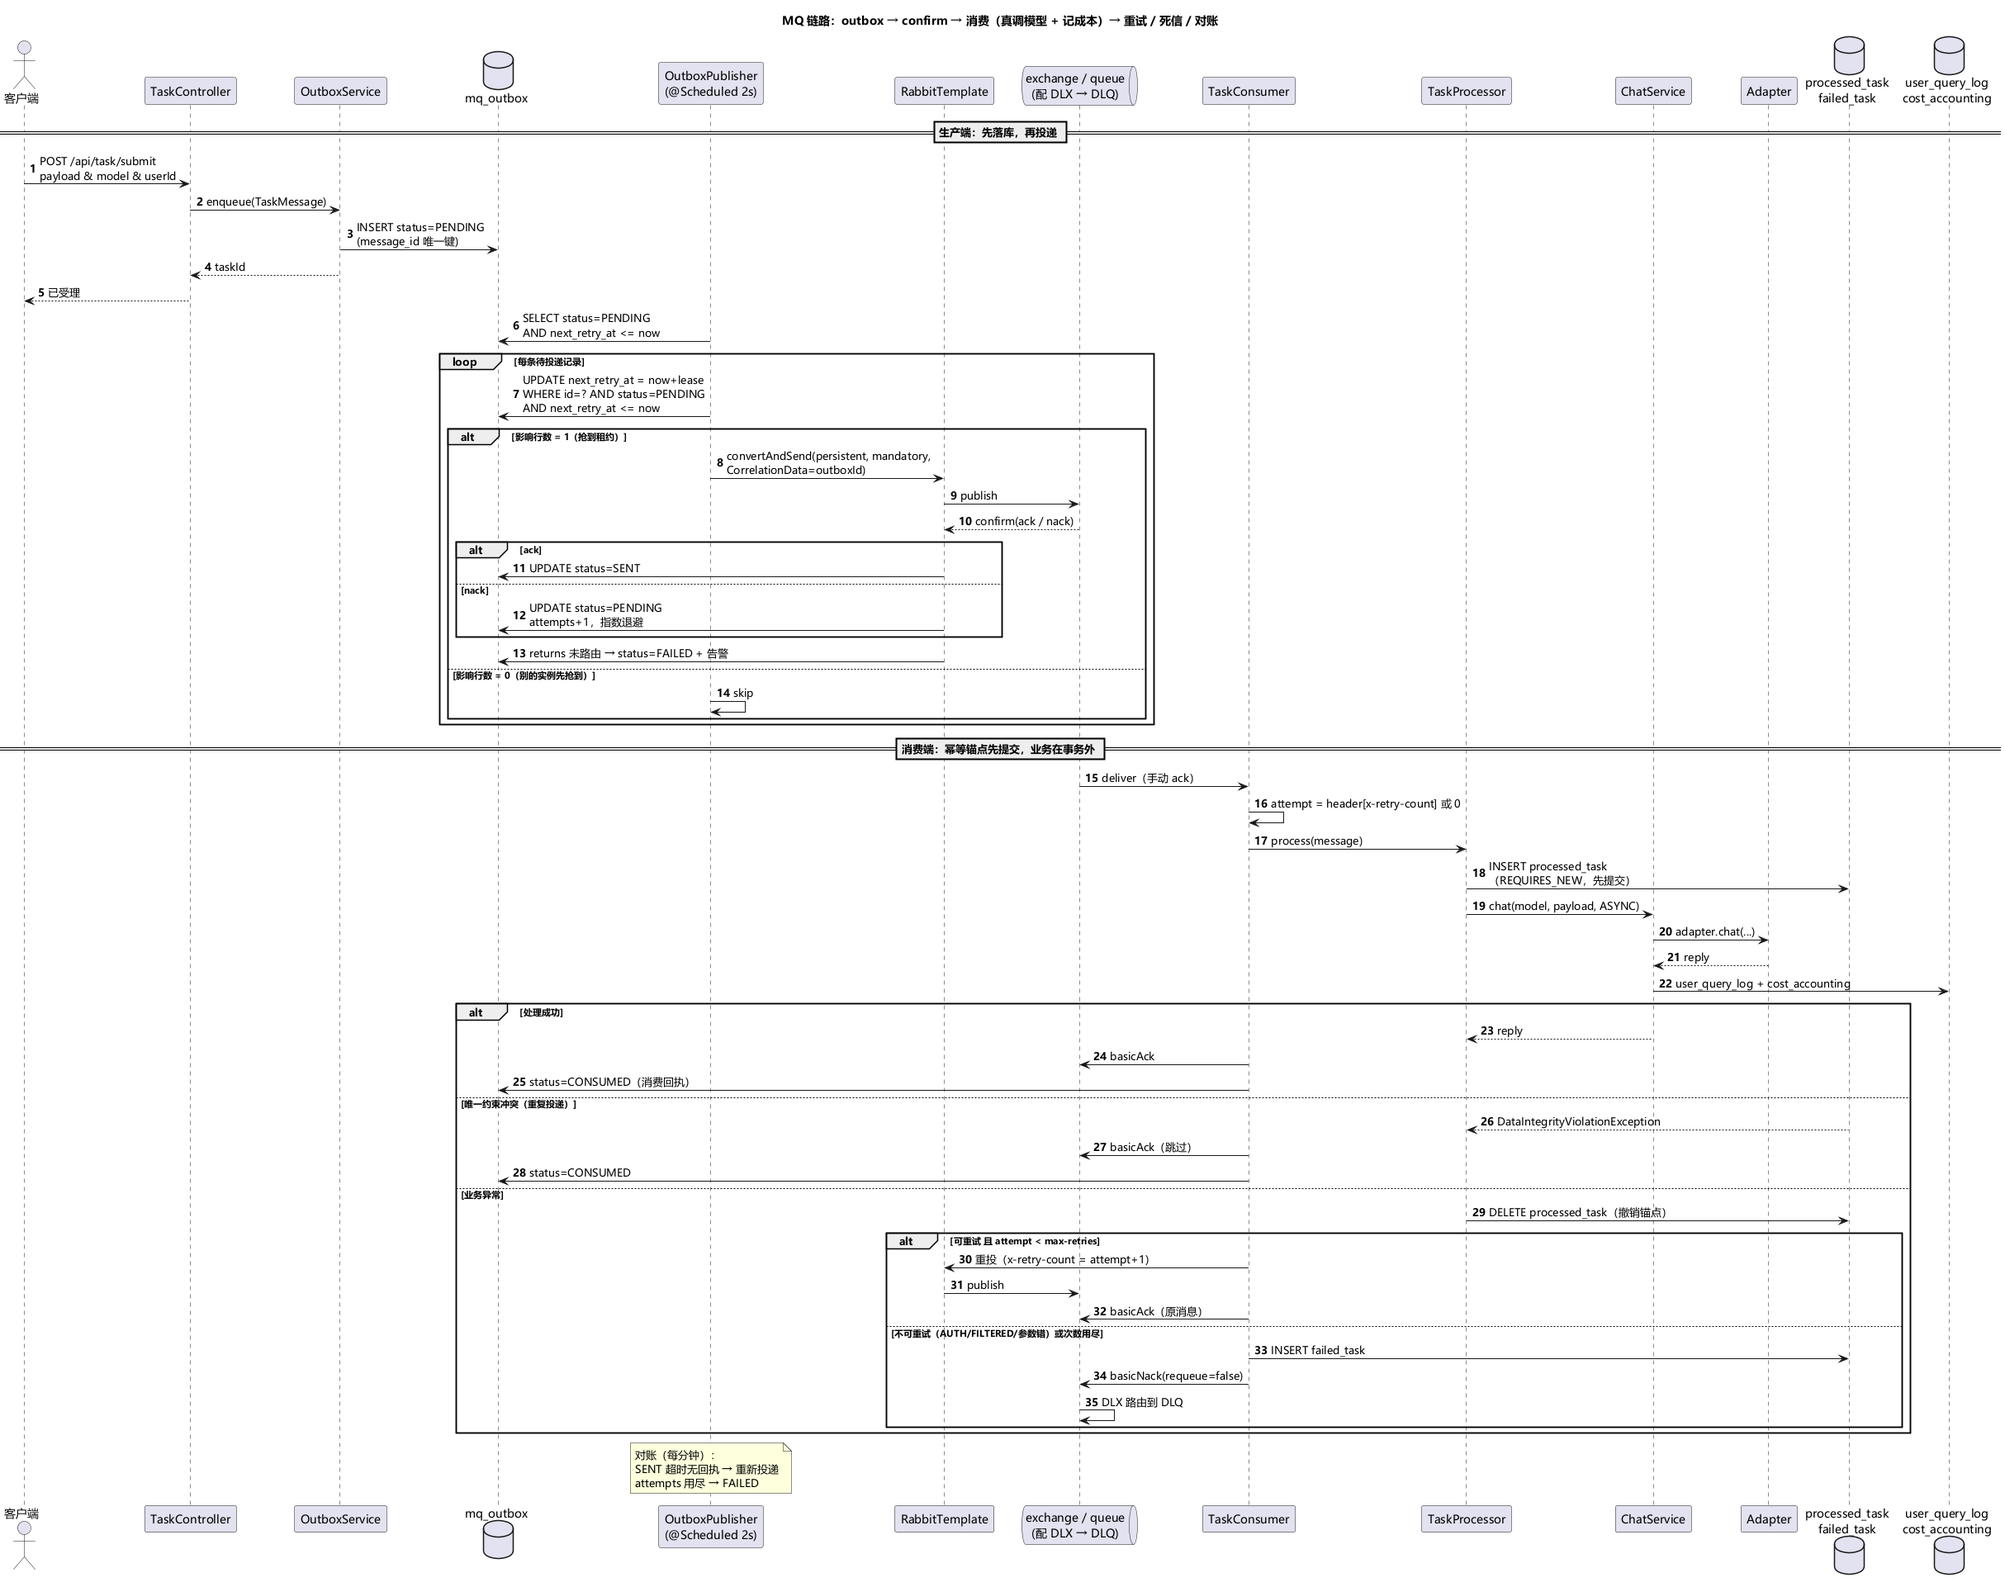
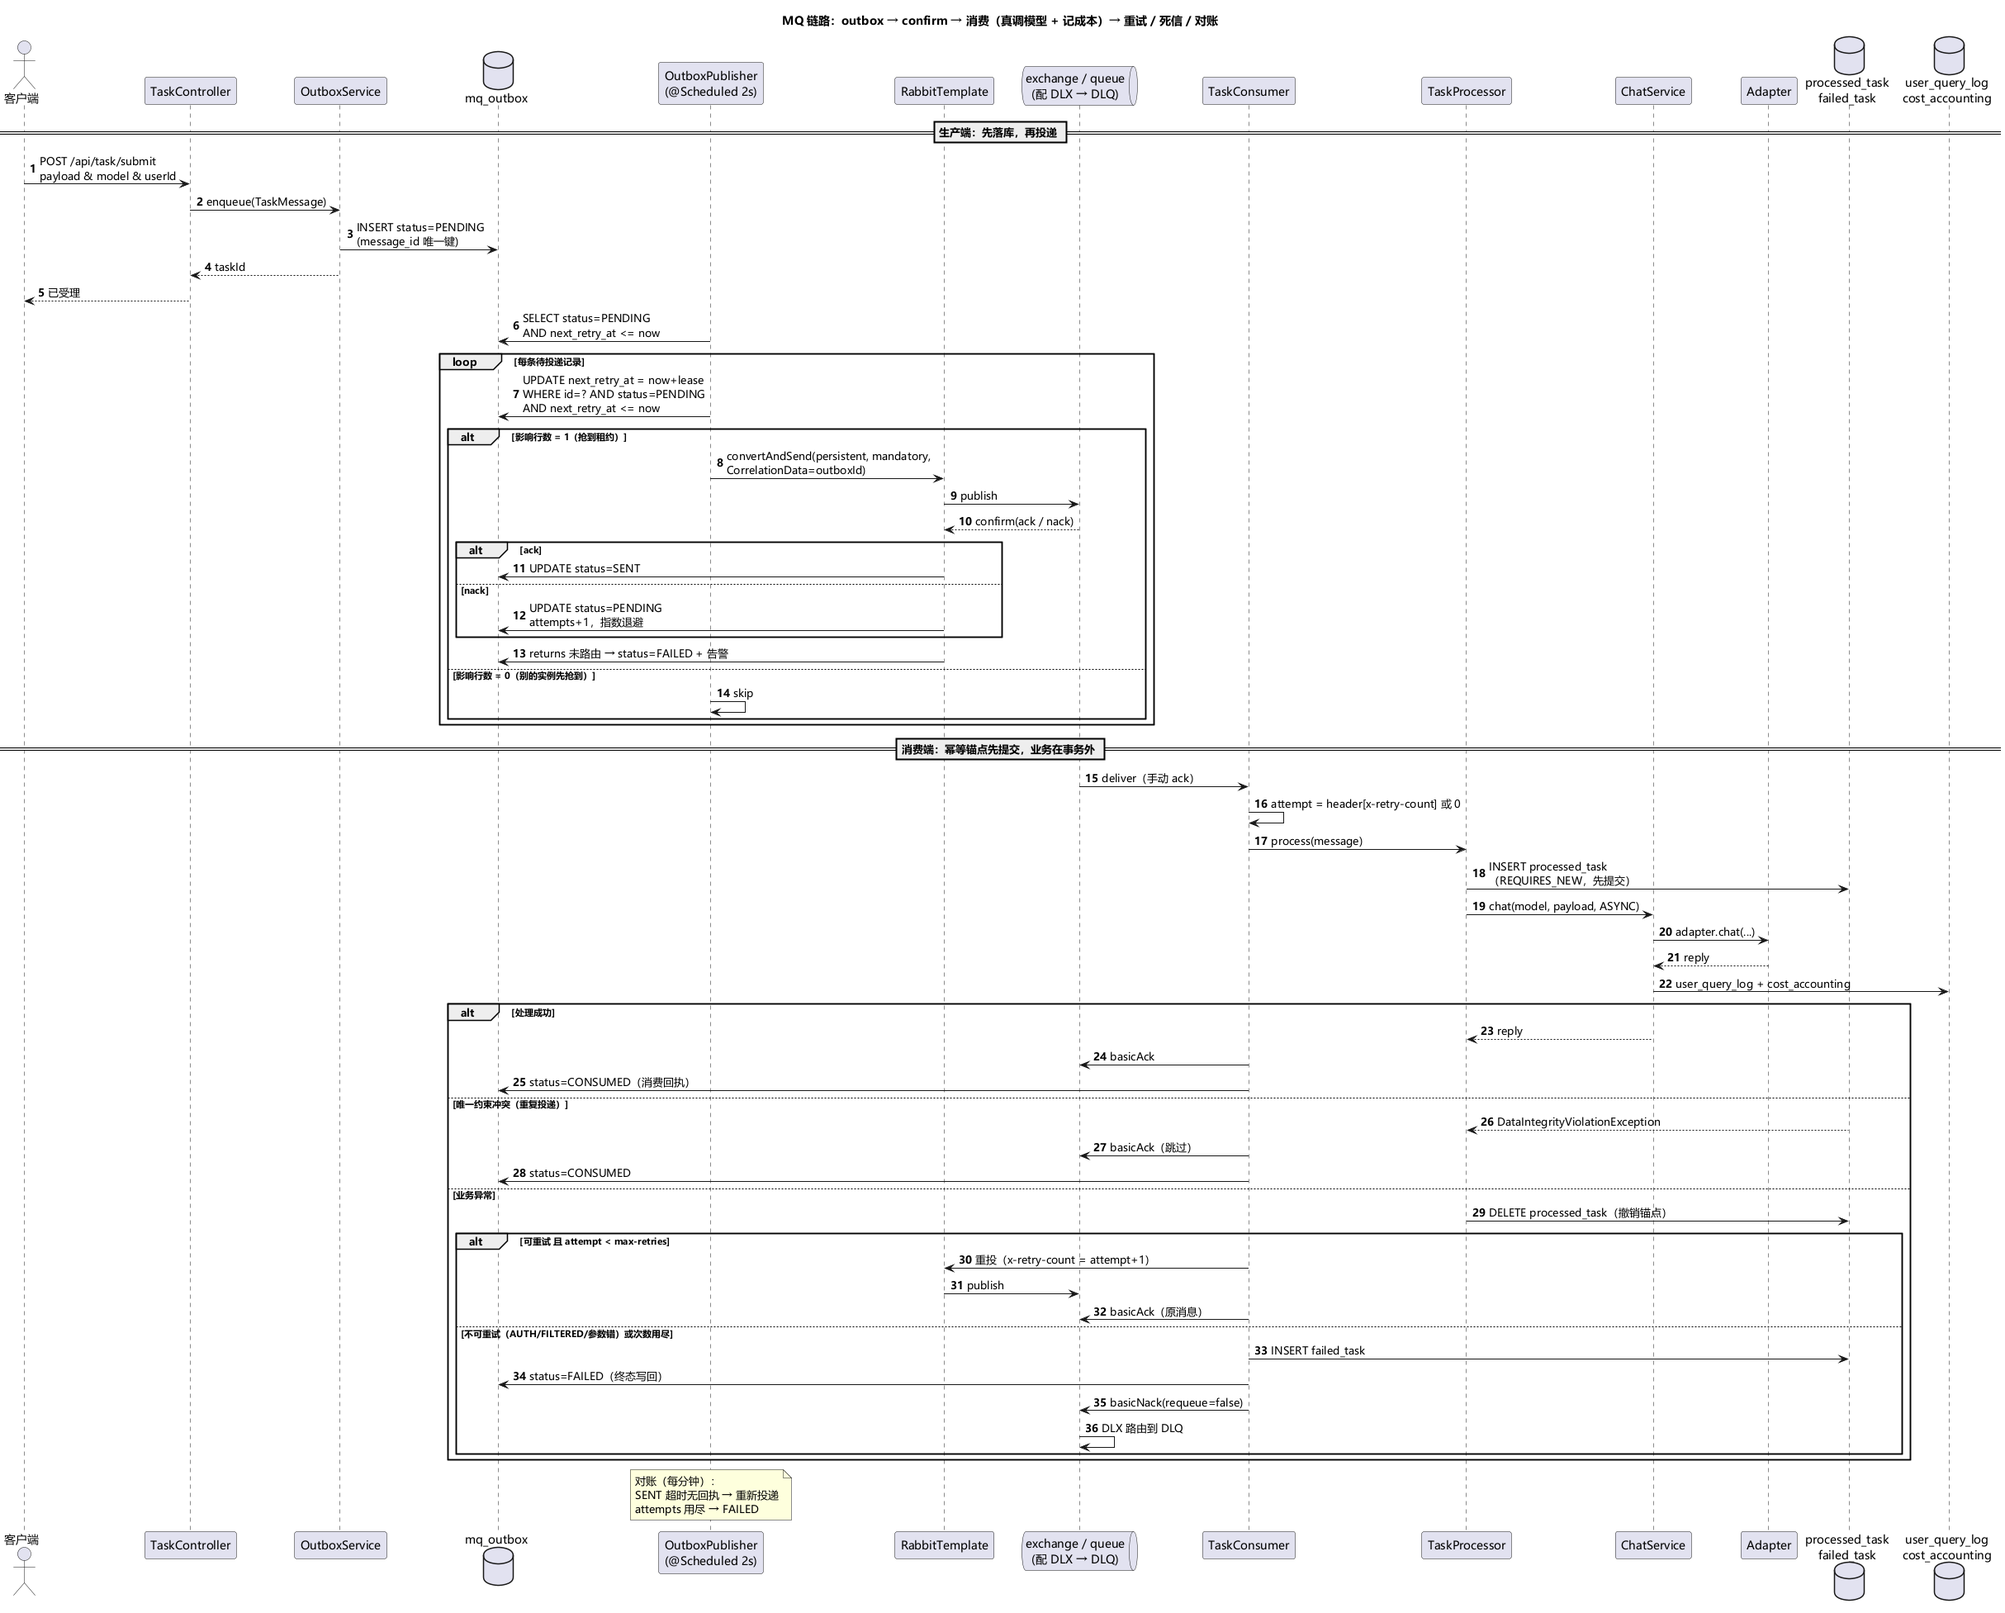
fix(mq): 终态失败回写 outbox，状态迁移补前置条件
- TaskConsumer 终态分支在 nack 之前调用 markFailedByMessageId，避免 outbox 停在 SENT 被对账反复重投
- 新增 OutboxRepository.markFailedByMessageId，带 status in ('PENDING','SENT') 护栏
- markRetry / markFailed 补状态条件，迟到的 nack 不再能复活已消费或已失败的行
- 对账首次延迟改为可配置 app.mq.outbox-reconcile-initial-delay-ms
- 新增 docs/04-缺陷记录.md：BUG-001/002/003 的复现参数、实测数据、根因与回归
- 回归实测：同一条失败任务只执行 1 次、failed_task 1 条、DLQ +1、outbox 直接 FAILED
- MQ 时序图与 README 文档导航更新

diff --git a/src/main/java/com/maibao/tech/mq/repository/OutboxRepository.java b/src/main/java/com/maibao/tech/mq/repository/OutboxRepository.java
@@ -38,19 +38,41 @@ public interface OutboxRepository extends JpaRepository<OutboxMessage, Long> {
     int markSent(@Param("id") Long id, @Param("sent") String sent, @Param("pending") String pending,
                  @Param("now") Instant now);
 
+    /**
+     * 发送失败退避重试。
+     *
+     * <p>状态护栏是必须的：同一条 outbox 因租约到期可能被 publish 两次（同一个
+     * CorrelationData id），第二次的 nack 不能把已经 CONSUMED / FAILED 的行打回 PENDING。</p>
+     */
     @Modifying
     @Transactional
     @Query("update OutboxMessage o set o.status = :pending, o.attempts = o.attempts + 1, "
-            + "o.nextRetryAt = :nextRetryAt, o.lastError = :error, o.updatedAt = :now where o.id = :id")
+            + "o.nextRetryAt = :nextRetryAt, o.lastError = :error, o.updatedAt = :now "
+            + "where o.id = :id and o.status in ('PENDING', 'SENT')")
     int markRetry(@Param("id") Long id, @Param("pending") String pending,
                   @Param("nextRetryAt") Instant nextRetryAt, @Param("error") String error,
                   @Param("now") Instant now);
 
+    /** 消息未路由（配置错）：只有还在途中的行才能标失败 */
     @Modifying
     @Transactional
-    @Query("update OutboxMessage o set o.status = :failed, o.lastError = :error, o.updatedAt = :now where o.id = :id")
+    @Query("update OutboxMessage o set o.status = :failed, o.lastError = :error, o.updatedAt = :now "
+            + "where o.id = :id and o.status in ('PENDING', 'SENT')")
     int markFailed(@Param("id") Long id, @Param("failed") String failed, @Param("error") String error,
                    @Param("now") Instant now);
+
+    /**
+     * 消费终态失败（不可重试或重试耗尽）：按 messageId 终结 outbox。
+     *
+     * <p>不写回的话，outbox 会一直停在 SENT，对账 5 分钟后把它打回 PENDING 重投，
+     * 同一条注定失败的消息会被反复执行，直到 outbox 自己的 attempts 用完。</p>
+     */
+    @Modifying
+    @Transactional
+    @Query("update OutboxMessage o set o.status = :failed, o.lastError = :error, o.updatedAt = :now "
+            + "where o.messageId = :messageId and o.status in ('PENDING', 'SENT')")
+    int markFailedByMessageId(@Param("messageId") String messageId, @Param("failed") String failed,
+                              @Param("error") String error, @Param("now") Instant now);
 
     /** 消费成功后回执；重复投递也会走到这里，幂等 */
     @Modifying

diff --git a/src/test/java/com/maibao/tech/mq/TaskConsumerTest.java b/src/test/java/com/maibao/tech/mq/TaskConsumerTest.java
@@ -27,6 +27,7 @@ import io.micrometer.core.instrument.simple.SimpleMeterRegistry;
 import com.maibao.tech.adapter.domain.ProviderError;
 import com.maibao.tech.adapter.domain.ProviderException;
 import com.maibao.tech.mq.domain.FailedTask;
+import com.maibao.tech.mq.domain.OutboxMessage;
 import com.maibao.tech.mq.domain.TaskMessage;
 
 @ExtendWith(MockitoExtension.class)
@@ -80,6 +81,8 @@ class TaskConsumerTest {
                 any(MessagePostProcessor.class));
         verify(channel).basicAck(DELIVERY_TAG, false);
         verify(failedTaskRepository, never()).save(any(FailedTask.class));
+        // 还在重投期，不能提前终结 outbox
+        verify(outboxRepository, never()).markFailedByMessageId(anyString(), anyString(), anyString(), any());
     }
 
     @Test
@@ -91,6 +94,7 @@ class TaskConsumerTest {
 
         verify(failedTaskRepository).save(any(FailedTask.class));
         verify(channel).basicNack(DELIVERY_TAG, false, false);
+        verify(outboxRepository).markFailedByMessageId(eq("t1"), eq(OutboxMessage.FAILED), anyString(), any());
         verify(rabbitTemplate, never()).convertAndSend(anyString(), anyString(), any(), any(MessagePostProcessor.class));
     }
 
@@ -103,6 +107,7 @@ class TaskConsumerTest {
 
         verify(failedTaskRepository).save(any(FailedTask.class));
         verify(channel).basicNack(DELIVERY_TAG, false, false);
+        verify(outboxRepository).markFailedByMessageId(eq("t1"), eq(OutboxMessage.FAILED), anyString(), any());
         verify(rabbitTemplate, never()).convertAndSend(anyString(), anyString(), any(), any(MessagePostProcessor.class));
     }
 

diff --git a/src/main/java/com/maibao/tech/mq/TaskConsumer.java b/src/main/java/com/maibao/tech/mq/TaskConsumer.java
@@ -110,6 +110,7 @@ public class TaskConsumer {
             return;
         }
         failedTaskRepository.save(new FailedTask(message.taskId(), message.payload(), e.toString(), attempt + 1));
+        markOutboxFailed(message, e);
         channel.basicNack(tag, false, false);
         meterRegistry.counter("mq.consume.failed").increment();
         if (!retryable(e)) {
@@ -118,6 +119,25 @@ public class TaskConsumer {
             log.error("consume failed after {} attempts, recorded to failed_task: {}",
                     attempt + 1, message.taskId(), e);
         }
+    }
+
+    /**
+     * 终态失败要同时终结 outbox，否则它会停在 SENT，被对账打回 PENDING 重投，
+     * 造成"同一条消息被反复执行、failed_task 和 DLQ 不断累加"。
+     *
+     * <p>必须写在 nack 之前：先 nack 的话，中间崩溃会留下 SENT 行。</p>
+     */
+    private void markOutboxFailed(TaskMessage message, Exception cause) {
+        try {
+            outboxRepository.markFailedByMessageId(message.taskId(), OutboxMessage.FAILED,
+                    abbreviate("consume failed: " + cause), Instant.now());
+        } catch (RuntimeException e) {
+            log.warn("failed to mark outbox failed for {}: {}", message.taskId(), e.toString());
+        }
+    }
+
+    private String abbreviate(String text) {
+        return text.length() > 255 ? text.substring(0, 255) : text;
     }
 
     /**

diff --git a/src/main/java/com/maibao/tech/mq/OutboxPublisher.java b/src/main/java/com/maibao/tech/mq/OutboxPublisher.java
@@ -80,7 +80,8 @@ public class OutboxPublisher {
     }
 
     /** 对账：SENT 但没有消费回执的重新投递；重试次数用尽的标记失败 */
-    @Scheduled(fixedDelayString = "${app.mq.outbox-reconcile-ms:60000}", initialDelay = 60000)
+    @Scheduled(fixedDelayString = "${app.mq.outbox-reconcile-ms:60000}",
+            initialDelayString = "${app.mq.outbox-reconcile-initial-delay-ms:60000}")
     public void reconcile() {
         Instant now = Instant.now();
         int requeued = repository.requeueStale(OutboxMessage.PENDING, OutboxMessage.SENT,

diff --git a/docs/04-缺陷记录.md b/docs/04-缺陷记录.md
@@ -1,0 +1,132 @@
+# 缺陷记录
+
+> 记录已修复的并发与可靠性问题。每条都包含复现方式、实测数据和回归断言，不只写"已修复"。
+
+| 编号 | 问题 | 影响 | 状态 |
+|---|---|---|---|
+| BUG-001 | 消费终态失败没有回写 outbox | 同一条失败消息被反复执行，`failed_task` / DLQ 成倍增长 | 已修复 |
+| BUG-002 | `markRetry` / `markFailed` 缺少状态条件 | 迟到的 nack 能把已消费的消息打回待投递 | 已修复 |
+| BUG-003 | 对账任务的首次延迟硬编码 60s | 压测与运维无法缩短 | 已修复 |
+
+---
+
+## BUG-001 消费终态失败没有回写 outbox
+
+**位置**：`mq/TaskConsumer.handleFailure` 的终态分支
+
+**现象**
+
+消费失败走到终态（不可重试，或重试耗尽）时，代码只写了 `failed_task` 并把消息 nack 进 DLQ，没有通知 outbox。outbox 仍停在 `SENT`，5 分钟后对账任务把它打回 `PENDING` 重投：
+
+```
+消费失败 → failed_task + nack 进 DLQ
+outbox 仍是 SENT（没人 markConsumed）
+  ↓ 300s 后 reconcile
+打回 PENDING → 重投 → 再失败 → 又一条 failed_task + 又一条 DLQ
+  ↓ 重复
+直到 outbox.attempts 用到上限
+```
+
+**影响**
+
+默认参数（`max-retries=3`、`consume-timeout=300s`、`outbox-max-attempts=5`）下：
+
+| 错误类型 | 每轮投递次数 | 轮数 | 业务调用 | failed_task | DLQ |
+|---|---|---|---|---|---|
+| 可重试 | 4（attempt 0/1/2/3） | 5 | **20 次** | 5 条 | 5 条 |
+| 不可重试 | 1 | 5 | **5 次** | 5 条 | 5 条 |
+
+业务调用就是一次模型请求，20 次是真实成本。另外，修复前遗留的 `SENT` 行也会在下一次对账时被"复活"——实测中一条更早的 `nokey-1` 就被重新投递并再次失败。
+
+**复现**（把时间压到秒级）
+
+```bash
+java -jar app.jar \
+  --app.mq.max-retries=0 \
+  --app.mq.consume-timeout-seconds=8 \
+  --app.mq.outbox-reconcile-ms=3000 \
+  --app.mq.outbox-reconcile-initial-delay-ms=2000 \
+  --app.mq.outbox-max-attempts=2
+
+# 提交一条必然失败的任务（没有配置 key）
+curl -X POST 'http://127.0.0.1:8080/api/task/submit?payload=x&taskId=loop-1&model=openai:gpt-4o'
+```
+
+实测结果：`failed_task=2`、业务调用 `2` 次、DLQ `+3`（含被复活的旧消息）、outbox 最终 `FAILED attempts=2`，日志出现两次 `outbox reconcile: requeued=...`。
+
+**根因**
+
+`markConsumed` 只在成功与重复投递两个分支调用；终态分支只写 `failed_task` + `basicNack`。
+
+**修复**
+
+1. 新增 `OutboxRepository.markFailedByMessageId(...)`，带状态护栏 `status in ('PENDING','SENT')`；
+2. 终态分支在 **nack 之前** 调用它，把 outbox 直接标 `FAILED` 并记录原因；
+3. 重投分支不碰 outbox（否则正常重试会被提前判死）。
+
+顺序很重要：先 nack 再写 outbox 的话，中间崩溃会留下 `SENT`，对账又会把它放出来。
+
+**回归**
+
+- `TaskConsumerTest`：终态分支断言 `markFailedByMessageId` 被调用；重投分支断言从未调用。
+- 端到端：同样参数下只产生 `failed_task=1`、业务调用 `1` 次、DLQ `+1`，outbox `FAILED attempts=0`，对账日志不再出现该消息。
+
+---
+
+## BUG-002 `markRetry` / `markFailed` 缺少状态条件
+
+**位置**：`mq/repository/OutboxRepository`
+
+**现象**
+
+```java
+// 修复前
+update OutboxMessage o set o.status = :pending, o.attempts = o.attempts + 1 ...
+where o.id = :id
+```
+
+只有 `id`，没有前置状态。一条迟到的 nack 打在已经 `CONSUMED` 的行上，会把它打回 `PENDING`，于是又投一次；打在 `FAILED` 上则会把失败记录复活。`markFailed`（returns 回调）同样如此。
+
+**触发条件**
+
+同一个 outbox 行因租约到期被 publish 两次时，两次 publish 共用同一个 `CorrelationData` id。如果第二次的 nack 落在第一次已经消费完成的行上，就会命中。
+
+概率低，但代价是把已经完成的消息重新投递；而状态护栏是零成本的。
+
+**修复**
+
+```java
+where o.id = :id and o.status in ('PENDING', 'SENT')
+```
+
+`markFailedByMessageId`（BUG-001 新增）同样带这个护栏。`markSent`、`markConsumed` 原本就有状态条件，不受影响。
+
+**回归**
+
+JPQL 层面没有单测，靠代码评审与端到端验证；后续若引入 `@DataJpaTest`，应补一条"CONSUMED 行收到 nack 不变"的用例。
+
+---
+
+## BUG-003 对账任务的首次延迟硬编码
+
+**位置**：`mq/OutboxPublisher.reconcile`
+
+**现象**
+
+```java
+@Scheduled(fixedDelayString = "${app.mq.outbox-reconcile-ms:60000}", initialDelay = 60000)
+```
+
+周期可配，首次延迟不可配。压测时想缩短只能改代码；运维也不能按环境调整。
+
+**修复**
+
+改为 `${app.mq.outbox-reconcile-initial-delay-ms:60000}`，默认值不变。
+
+---
+
+## 复盘：这类问题的共同点
+
+1. **状态机有两端，只写一端就会自愈成"重试风暴"**。消费端判定"终态失败"后，生产端的 outbox 也必须进入终态；否则对账这个"补偿机制"会变成"放大器"。
+2. **所有状态迁移的 UPDATE 都要带前置状态**。没有前置状态的 UPDATE 在迟到消息、重复投递、租约重发下都会出错，而且很难在正常路径上发现。
+3. **补偿任务要能区分"没做完"和"做失败了"**。`SENT` 既可能是"在途"也可能是"已经失败但没人回写"，所以终态必须显式落库，不能靠超时推断。

diff --git a/docs/02-时序图.md b/docs/02-时序图.md
@@ -49,6 +49,7 @@ t=5.01s  execute 收尾 → UPDATE 影响 0 行 → state advanced: false
 | 不是所有错误都重试 | `AUTH` / `FILTERED` / 业务参数错误重试无用，直接 `failed_task` + DLQ；只有限流/超时/5xx 才重投 |
 | 失败用「重新投递 + 计数头」而不是 `nack(requeue=true)` | 立即重回队列会原地打转，把消费者钉死 |
 | 重试耗尽写 `failed_task` 并 nack | 消息进 DLQ 保留现场，同时释放队列 |
+| 终态失败同时把 outbox 标 `FAILED` | 只写 `failed_task` 不写 outbox，`SENT` 行会被对账打回重投，同一条消息反复执行（见 [04-缺陷记录](04-缺陷记录.md) BUG-001） |
 | 每分钟对账 | `SENT` 超过 5 分钟没有消费回执 → 重投；重试次数用尽 → `FAILED` |
 
 ### 关键指标

diff --git a/README.md b/README.md
@@ -262,6 +262,7 @@ mvn test
 | [`docs/01-设计取舍.md`](docs/01-设计取舍.md) | 每个技术点为什么这么设计、常见疑问 |
 | [`docs/02-时序图.md`](docs/02-时序图.md) | 发布链路与 MQ 链路的时序图（PNG + PlantUML 源） |
 | [`docs/03-数据库设计.md`](docs/03-数据库设计.md) | 表结构、索引、计费口径 |
+| [`docs/04-缺陷记录.md`](docs/04-缺陷记录.md) | 已修复的并发/可靠性问题：复现、根因、回归 |
 | [`docs/schema.sql`](docs/schema.sql) | 建表脚本（结构唯一来源） |
 
 ---
